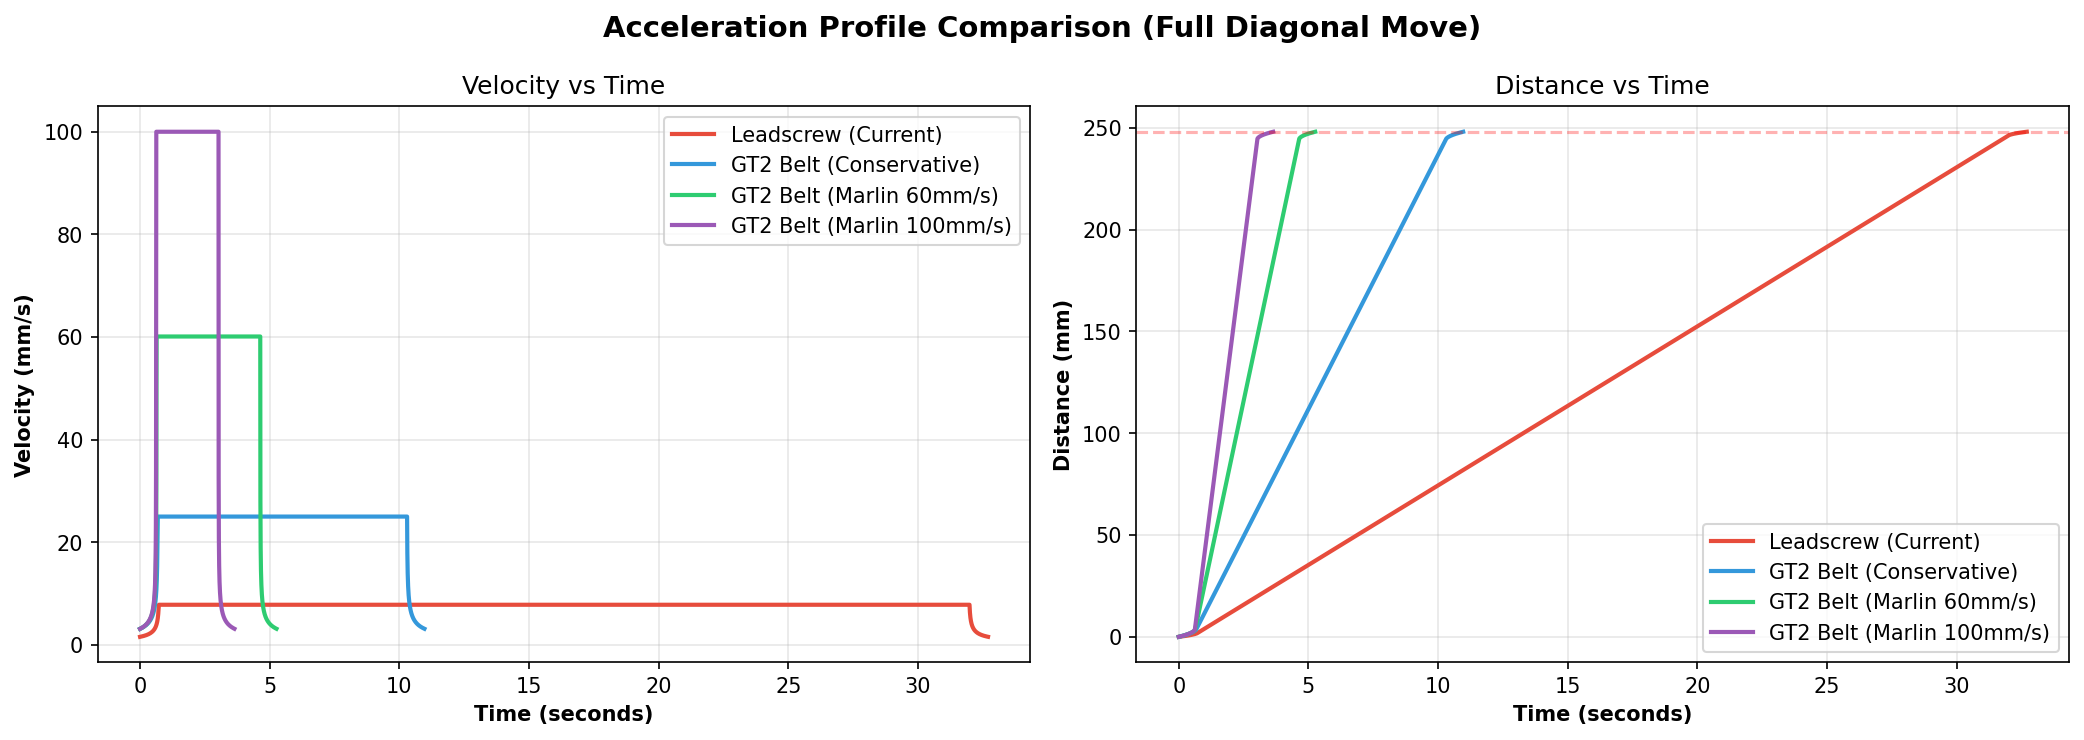
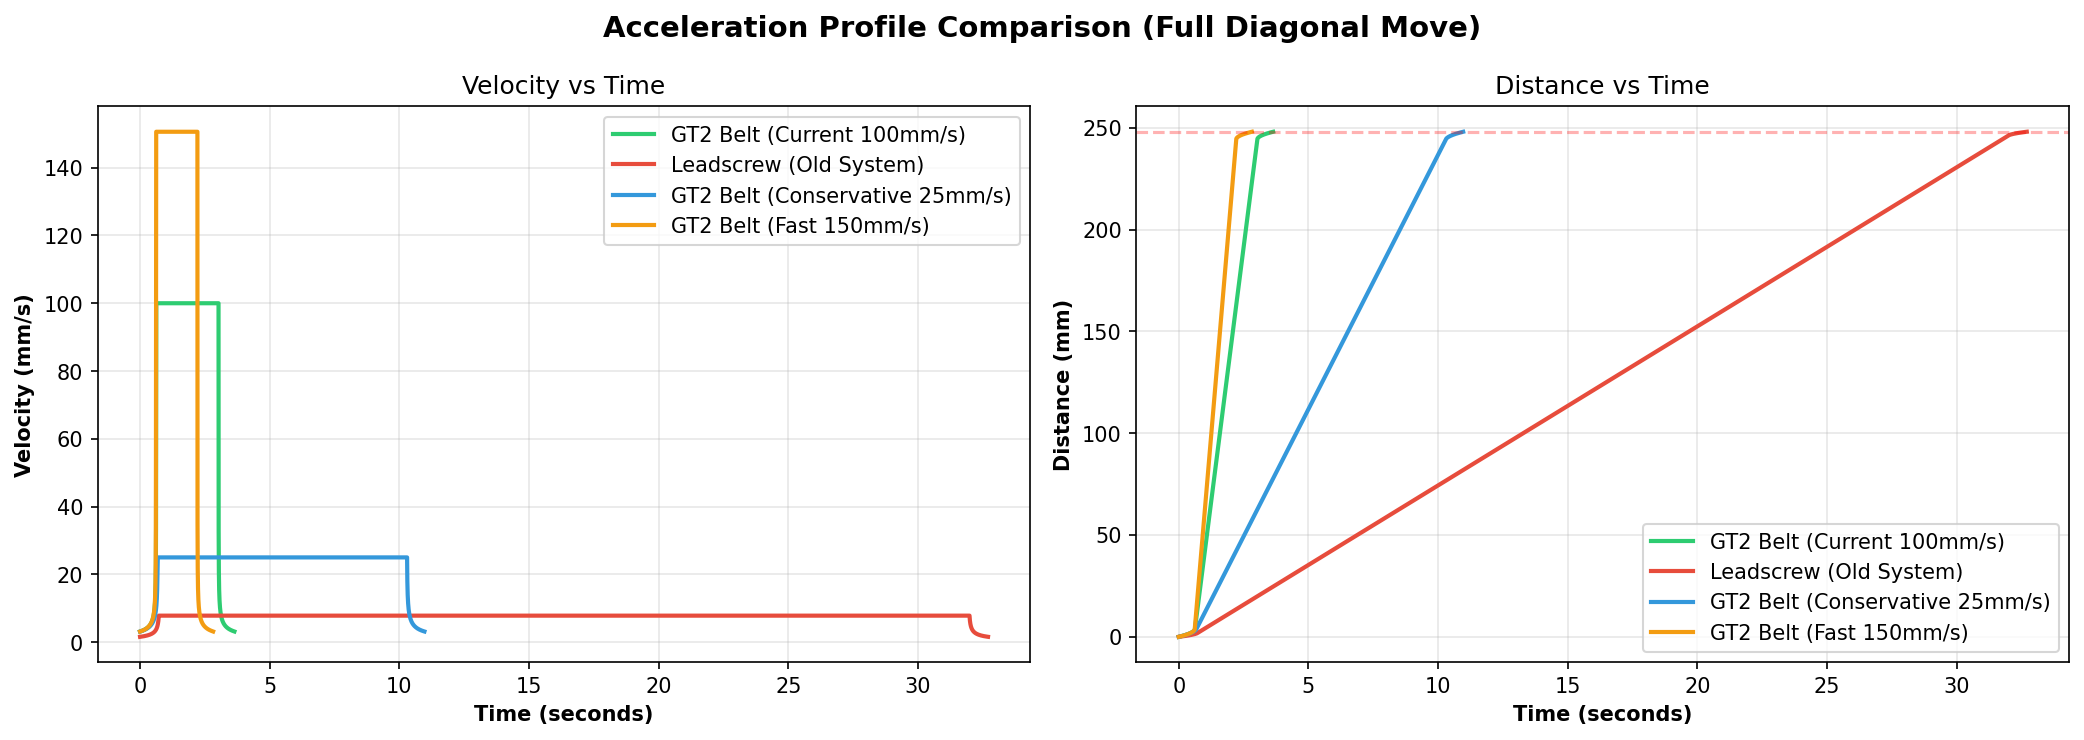
feat: update drive system analysis to reflect current GT2 belt (100mm/s) with emojis

diff --git a/analysis/compare_drive_systems.py b/analysis/compare_drive_systems.py
@@ -1,33 +1,35 @@
 """Compare leadscrew vs GT2 belt drive system performance."""
 
+from typing import Any
+
 import matplotlib.pyplot as plt
 import numpy as np
 
 # Configuration options
-configs = {
-    "Leadscrew (Current)": {
+configs: dict[str, dict[str, Any]] = {
+    "GT2 Belt (Current 100mm/s)": {
+        "steps_per_mm": 80.0,
+        "max_steps_per_sec": 8000,  # Current: 100 mm/s
+        "min_delay": 0.000125,
+        "color": "#2ecc71",
+    },
+    "Leadscrew (Old System)": {
         "steps_per_mm": 160.0,
         "max_steps_per_sec": 1250,
         "min_delay": 0.0008,
         "color": "#e74c3c",
     },
-    "GT2 Belt (Conservative)": {
+    "GT2 Belt (Conservative 25mm/s)": {
         "steps_per_mm": 80.0,
-        "max_steps_per_sec": 2000,
+        "max_steps_per_sec": 2000,  # 25 mm/s
         "min_delay": 0.0005,
         "color": "#3498db",
     },
-    "GT2 Belt (Marlin 60mm/s)": {
+    "GT2 Belt (Fast 150mm/s)": {
         "steps_per_mm": 80.0,
-        "max_steps_per_sec": 4800,  # 60 mm/s
-        "min_delay": 0.000208,
-        "color": "#2ecc71",
-    },
-    "GT2 Belt (Marlin 100mm/s)": {
-        "steps_per_mm": 80.0,
-        "max_steps_per_sec": 8000,  # 100 mm/s
-        "min_delay": 0.000125,
-        "color": "#9b59b6",
+        "max_steps_per_sec": 12000,  # 150 mm/s
+        "min_delay": 0.000083,
+        "color": "#f39c12",
     },
 }
 
@@ -41,11 +43,11 @@ MAX_STEP_DELAY = 0.004
 ACCELERATION_STEPS = 300
 
 
-def calculate_metrics(config_name: str, config: dict) -> dict:
+def calculate_metrics(config_name: str, config: dict[str, Any]) -> dict[str, float]:
     """Calculate performance metrics for a drive system."""
-    steps_per_mm = config["steps_per_mm"]
-    max_steps_per_sec = config["max_steps_per_sec"]
-    min_delay = config["min_delay"]
+    steps_per_mm = float(config["steps_per_mm"])
+    max_steps_per_sec = float(config["max_steps_per_sec"])
+    min_delay = float(config["min_delay"])
 
     # Speed calculations
     max_speed_mm_per_sec = max_steps_per_sec / steps_per_mm
@@ -69,11 +71,13 @@ def calculate_metrics(config_name: str, config: dict) -> dict:
     }
 
 
-def calculate_velocity_profile(config: dict, distance_mm: float) -> tuple[np.ndarray, np.ndarray]:
+def calculate_velocity_profile(
+    config: dict[str, Any], distance_mm: float
+) -> tuple[np.ndarray[Any, np.dtype[np.float64]], np.ndarray[Any, np.dtype[np.float64]]]:
     """Calculate velocity over time for a move with acceleration."""
-    steps_per_mm = config["steps_per_mm"]
+    steps_per_mm = float(config["steps_per_mm"])
     total_steps = int(distance_mm * steps_per_mm)
-    min_delay = config["min_delay"]
+    min_delay = float(config["min_delay"])
 
     accel_steps = min(ACCELERATION_STEPS, total_steps // 2)
 
@@ -113,7 +117,7 @@ def calculate_velocity_profile(config: dict, distance_mm: float) -> tuple[np.nda
     return np.array(times), np.array(velocities)
 
 
-def plot_comparison():
+def plot_comparison() -> None:
     """Create comprehensive comparison plots."""
     # Calculate metrics for all configs
     metrics = {name: calculate_metrics(name, config) for name, config in configs.items()}
@@ -179,7 +183,7 @@ def plot_comparison():
     # 4. Velocity profile for one square move
     ax = axes[1, 1]
     for name, config in configs.items():
-        times, velocities = calculate_velocity_profile(config, SQUARE_SIZE_MM)
+        times, velocities = calculate_velocity_profile(config, SQUARE_SIZE_MM)  # type: ignore[assignment]
         ax.plot(times, velocities, label=name, color=config["color"], linewidth=2)
 
     ax.set_xlabel("Time (seconds)", fontweight="bold")
@@ -189,8 +193,8 @@ def plot_comparison():
     ax.grid(alpha=0.3)
 
     plt.tight_layout()
-    plt.savefig("tests/output/drive_system_comparison.png", dpi=150, bbox_inches="tight")
-    print("✓ Saved: tests/output/drive_system_comparison.png")
+    plt.savefig("analysis/drive_system_comparison.png", dpi=150, bbox_inches="tight")
+    print("✓ Saved: analysis/drive_system_comparison.png")
 
     # Create detailed acceleration comparison
     fig, axes = plt.subplots(1, 2, figsize=(14, 5))
@@ -201,7 +205,7 @@ def plot_comparison():
     # Velocity vs time
     ax = axes[0]
     for name, config in configs.items():
-        times, velocities = calculate_velocity_profile(config, DIAGONAL_DISTANCE_MM / np.sqrt(2))
+        times, velocities = calculate_velocity_profile(config, DIAGONAL_DISTANCE_MM / np.sqrt(2))  # type: ignore[assignment]
         ax.plot(times, velocities, label=name, color=config["color"], linewidth=2)
 
     ax.set_xlabel("Time (seconds)", fontweight="bold")
@@ -213,7 +217,7 @@ def plot_comparison():
     # Distance vs time
     ax = axes[1]
     for name, config in configs.items():
-        times, velocities = calculate_velocity_profile(config, DIAGONAL_DISTANCE_MM / np.sqrt(2))
+        times, velocities = calculate_velocity_profile(config, DIAGONAL_DISTANCE_MM / np.sqrt(2))  # type: ignore[assignment]
         # Calculate distance by integrating velocity
         distances = np.zeros_like(times)
         for i in range(1, len(times)):
@@ -230,64 +234,68 @@ def plot_comparison():
     ax.axhline(BOARD_SIZE_MM, color="red", linestyle="--", alpha=0.3, label="Board width")
 
     plt.tight_layout()
-    plt.savefig("tests/output/acceleration_comparison.png", dpi=150, bbox_inches="tight")
-    print("✓ Saved: tests/output/acceleration_comparison.png")
+    plt.savefig("analysis/acceleration_comparison.png", dpi=150, bbox_inches="tight")
+    print("✓ Saved: analysis/acceleration_comparison.png")
 
     plt.show()
 
 
-def print_summary():
+def print_summary() -> None:
     """Print text summary of comparison."""
     print("\n" + "=" * 70)
-    print("DRIVE SYSTEM PERFORMANCE COMPARISON")
+    print("🏎  DRIVE SYSTEM PERFORMANCE COMPARISON")
     print("=" * 70)
 
     for name, config in configs.items():
         metrics = calculate_metrics(name, config)
 
-        print(f"\n{name}:")
-        print("  Configuration:")
+        print(f"\n📊 {name}:")
+        print("  ⚙  Configuration:")
         print(f"    - Steps/mm: {config['steps_per_mm']}")
         print(f"    - Max steps/s: {config['max_steps_per_sec']}")
-        print("\n  Performance:")
+        print("\n  🚀 Performance:")
         print(f"    - Max speed (single axis): {metrics['max_speed']:.2f} mm/s")
         print(f"    - Max speed (diagonal): {metrics['diagonal_speed']:.2f} mm/s")
-        print(f"    - Time per square: {metrics['time_per_square']:.2f}s")
-        print(f"    - Full diagonal: {metrics['full_diagonal_time']:.1f}s")
+        print(f"    - Time per square: {metrics['time_per_square']:.2f}s ⏱")
+        print(f"    - Full diagonal: {metrics['full_diagonal_time']:.1f}s ⏱")
         print(f"    - Accel distance: {metrics['accel_distance']:.1f}mm")
         print(f"    - Accel time: {metrics['accel_time']:.2f}s")
 
     print("\n" + "=" * 70)
-    print("SPEED IMPROVEMENTS:")
+    print("📈 SPEED IMPROVEMENTS:")
     print("=" * 70)
 
-    leadscrew = calculate_metrics("Leadscrew (Current)", configs["Leadscrew (Current)"])
-    gt2_std = calculate_metrics("GT2 Belt (Conservative)", configs["GT2 Belt (Conservative)"])
-    gt2_60 = calculate_metrics("GT2 Belt (Marlin 60mm/s)", configs["GT2 Belt (Marlin 60mm/s)"])
-    gt2_100 = calculate_metrics("GT2 Belt (Marlin 100mm/s)", configs["GT2 Belt (Marlin 100mm/s)"])
+    gt2_current = calculate_metrics("GT2 Belt (Current 100mm/s)", configs["GT2 Belt (Current 100mm/s)"])
+    leadscrew = calculate_metrics("Leadscrew (Old System)", configs["Leadscrew (Old System)"])
+    gt2_conservative = calculate_metrics("GT2 Belt (Conservative 25mm/s)", configs["GT2 Belt (Conservative 25mm/s)"])
+    gt2_fast = calculate_metrics("GT2 Belt (Fast 150mm/s)", configs["GT2 Belt (Fast 150mm/s)"])
 
-    print("\nGT2 Belt (Conservative) vs Leadscrew:")
-    print(f"  - Speed improvement: {gt2_std['max_speed'] / leadscrew['max_speed']:.2f}x faster")
-    print(f"  - Time reduction: {leadscrew['time_per_square'] / gt2_std['time_per_square']:.2f}x")
+    print("\n✅ GT2 Belt (Current 100mm/s) vs Leadscrew (Old):")
+    print(f"  - Speed improvement: {gt2_current['max_speed'] / leadscrew['max_speed']:.2f}x faster ⚡")
     print(
-        f"  - Full diagonal: {leadscrew['full_diagonal_time']:.1f}s → {gt2_std['full_diagonal_time']:.1f}s "
-        f"({leadscrew['full_diagonal_time'] - gt2_std['full_diagonal_time']:.1f}s saved)"
+        f"  - Time reduction: {leadscrew['time_per_square'] / gt2_current['time_per_square']:.2f}x"
+    )
+    print(
+        f"  - Full diagonal: {leadscrew['full_diagonal_time']:.1f}s → {gt2_current['full_diagonal_time']:.1f}s "
+        f"({leadscrew['full_diagonal_time'] - gt2_current['full_diagonal_time']:.1f}s saved) 💾"
     )
 
-    print("\nGT2 Belt (Marlin 60mm/s) vs Leadscrew:")
-    print(f"  - Speed improvement: {gt2_60['max_speed'] / leadscrew['max_speed']:.2f}x faster")
-    print(f"  - Time reduction: {leadscrew['time_per_square'] / gt2_60['time_per_square']:.2f}x")
+    print("\n🐢 GT2 Belt (Conservative 25mm/s) vs Current:")
+    print(f"  - Speed difference: {gt2_conservative['max_speed'] / gt2_current['max_speed']:.2f}x (slower)")
     print(
-        f"  - Full diagonal: {leadscrew['full_diagonal_time']:.1f}s → {gt2_60['full_diagonal_time']:.1f}s "
-        f"({leadscrew['full_diagonal_time'] - gt2_60['full_diagonal_time']:.1f}s saved)"
+        f"  - Time increase: {gt2_conservative['time_per_square'] / gt2_current['time_per_square']:.2f}x"
+    )
+    print(
+        f"  - Full diagonal: {gt2_current['full_diagonal_time']:.1f}s → {gt2_conservative['full_diagonal_time']:.1f}s "
+        f"({gt2_conservative['full_diagonal_time'] - gt2_current['full_diagonal_time']:.1f}s slower)"
     )
 
-    print("\nGT2 Belt (Marlin 100mm/s) vs Leadscrew:")
-    print(f"  - Speed improvement: {gt2_100['max_speed'] / leadscrew['max_speed']:.2f}x faster")
-    print(f"  - Time reduction: {leadscrew['time_per_square'] / gt2_100['time_per_square']:.2f}x")
+    print("\n🚀 GT2 Belt (Fast 150mm/s) vs Current:")
+    print(f"  - Speed improvement: {gt2_fast['max_speed'] / gt2_current['max_speed']:.2f}x faster ⚡")
+    print(f"  - Time reduction: {gt2_current['time_per_square'] / gt2_fast['time_per_square']:.2f}x")
     print(
-        f"  - Full diagonal: {leadscrew['full_diagonal_time']:.1f}s → {gt2_100['full_diagonal_time']:.1f}s "
-        f"({leadscrew['full_diagonal_time'] - gt2_100['full_diagonal_time']:.1f}s saved)"
+        f"  - Full diagonal: {gt2_current['full_diagonal_time']:.1f}s → {gt2_fast['full_diagonal_time']:.1f}s "
+        f"({gt2_current['full_diagonal_time'] - gt2_fast['full_diagonal_time']:.1f}s saved) 💾"
     )
 
     print("\n" + "=" * 70 + "\n")
